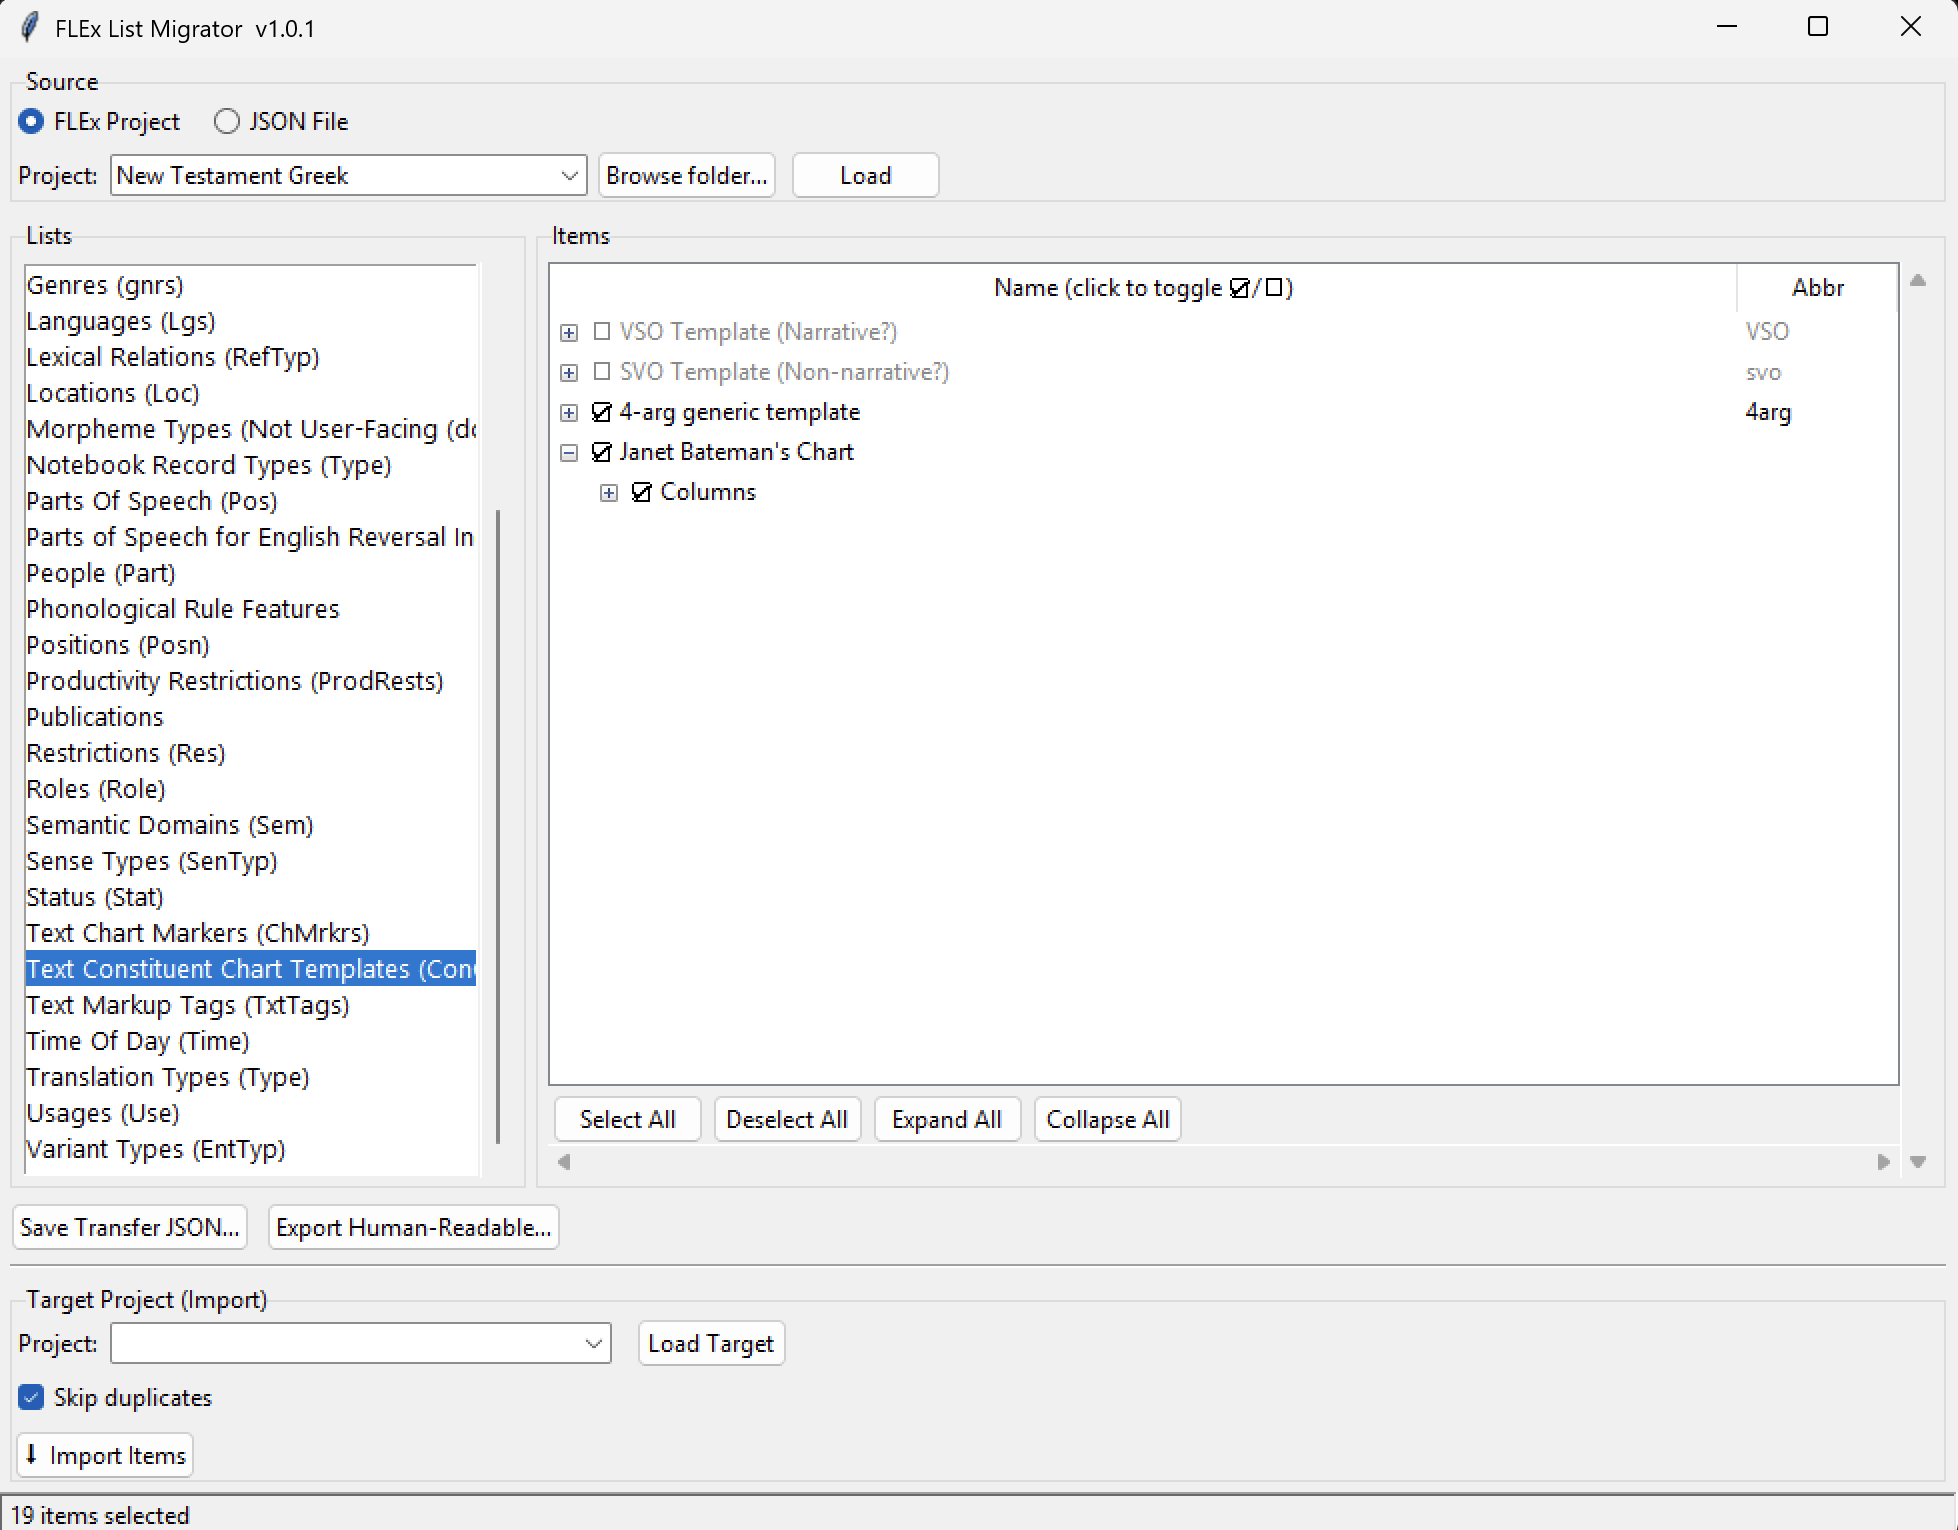
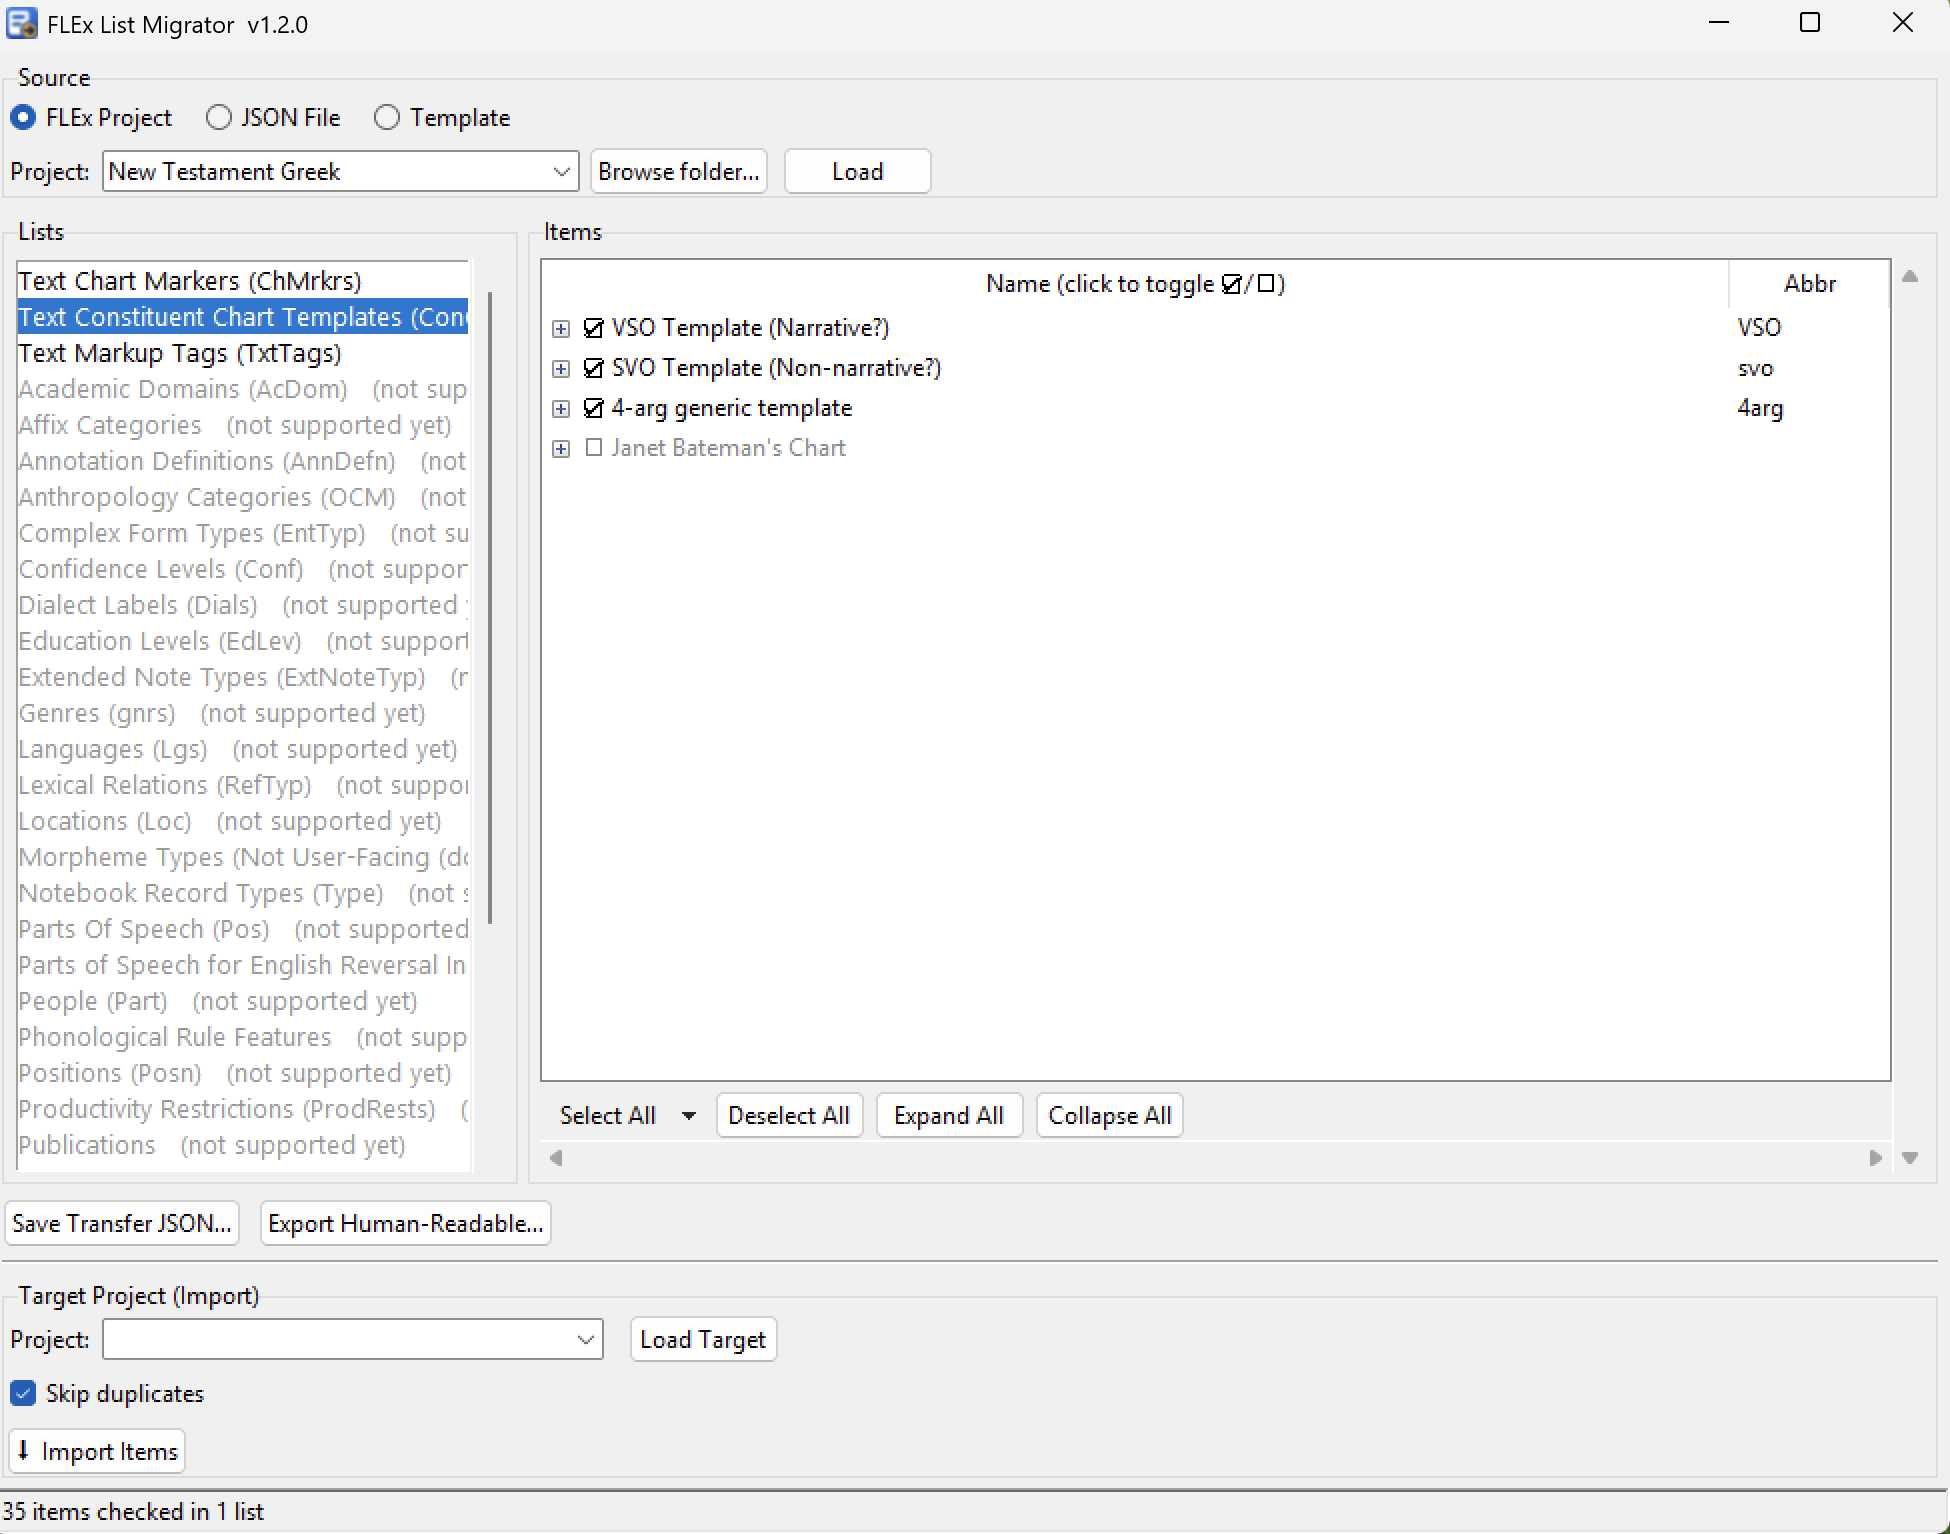
Website: new screenshot of the 1.2 window
Seth's screenshot shows the supported lists at the top with the others
greyed out, checked chart templates, and the Select All menu.  The image
description and caption match it.

Changed region(s): [[0.0, 0.0, 1.0, 1.0], [0.2769, 0.6758, 0.6154, 0.768], [0.9538, 0.7373, 0.9846, 0.768]]

diff --git a/docs/index.html b/docs/index.html
@@ -86,8 +86,8 @@
     <section class="screenshot" aria-label="Screenshot of the app">
       <div class="container">
         <figure class="screenshot-figure">
-          <img src="screenshots/flex-list-migrator.png" alt="The FLEx List Migrator window: a Source panel with a project chooser, a list of possibility lists (Parts of Speech, Semantic Domains, Text Constituent Chart Templates, and more), and an Items panel showing checkable, expandable items — here a discourse chart template with nested columns selected — above Save Transfer JSON, Export Human-Readable, and Import Items controls." />
-          <figcaption>Browse a project's lists, check the items you want — including nested items like discourse chart templates and their columns — then export or import. (19 items selected here.)</figcaption>
+          <img src="screenshots/flex-list-migrator.png" alt="The FLEx List Migrator window. The Source panel is set to a FLEx project. The Lists panel shows Text Chart Markers, Text Constituent Chart Templates and Text Markup Tags at the top, with the lists that aren't supported yet greyed out below. The Items panel shows three chart templates checked, above the Select All, Deselect All, Expand All and Collapse All buttons, then Save Transfer JSON, Export Human-Readable and the Target Project import controls. The status bar reads: 35 items checked in 1 list." />
+          <figcaption>Browse a project's lists and check the items you want, in one list or several — whole chart templates with their columns, or single markers — then export or import. (35 items checked here.)</figcaption>
         </figure>
       </div>
     </section>
